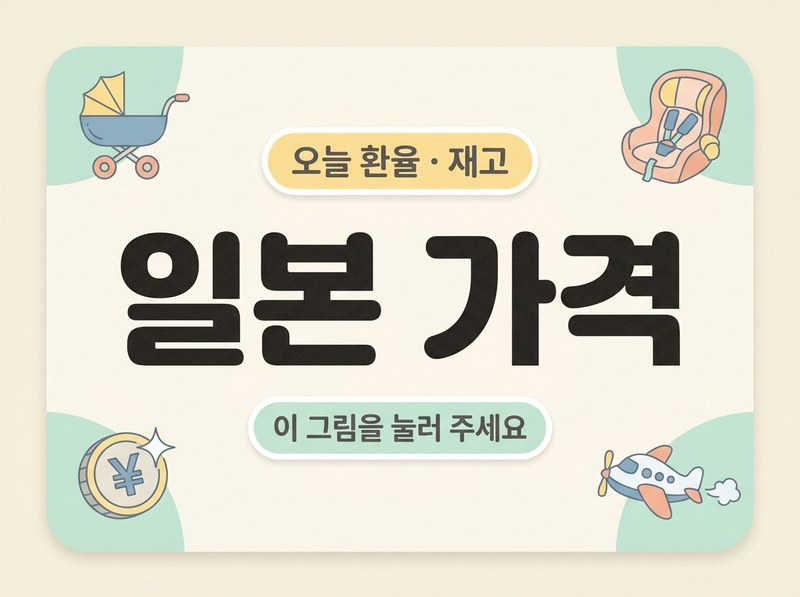
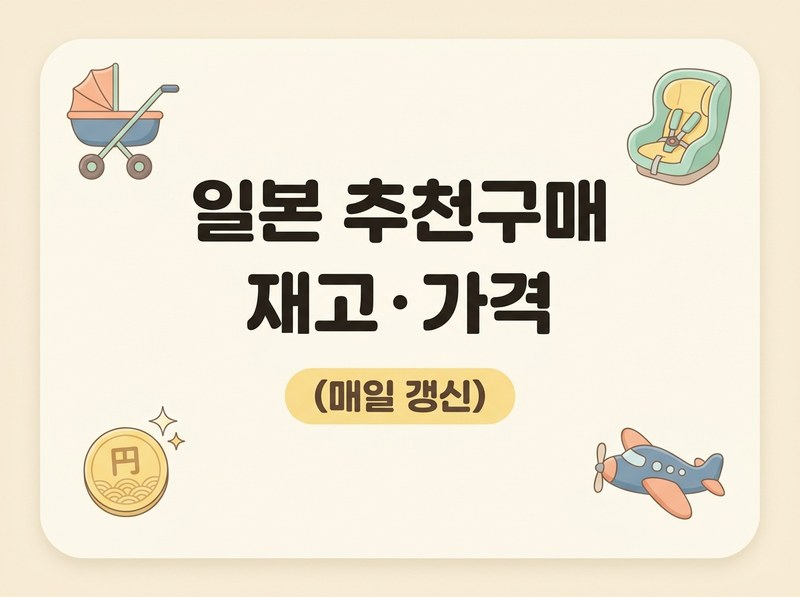
이유식 가이드에 참고용·전문가 상담 안내 추가, 일본 가격 탭 이름·그림 변경(일본 추천구매 재고·가격 매일 갱신)

diff --git a/index.html b/index.html
@@ -897,6 +897,10 @@ dd b{font-weight:500; color:var(--ink)}
 .bf-pt.on{border-color:var(--seal);color:var(--ink);font-weight:700;background:var(--paper)}
 .bf-pp[hidden]{display:none}
 .bf-pick{margin-top:6px}
+.bf-disc{margin:0 0 18px;border-left:4px solid var(--seal);background:var(--paper-2)}
+.bf-disc p{margin:0;font-size:14px;line-height:1.7;color:var(--ink-2)}
+.bf-disc p+p{margin-top:6px}
+.bf-disc b{color:var(--ink)}
 /*BF:CSS:END*/
 
 </style>
@@ -942,7 +946,7 @@ dd b{font-weight:500; color:var(--ink)}
   </button>
   <button type="button" class="tb" role="tab" aria-selected="false" data-tab="tab-jp">
     <img src="tab-jp.jpg" width="800" height="597" decoding="async"
-         alt="일본 가격 — 일본에서 많이 사 오는 유모차·카시트·하이체어의 오늘 가격과 재고, 구매처 찾아가는 법을 봅니다">
+         alt="일본 추천구매 재고·가격(매일 갱신) — 일본에서 많이 사 오는 유모차·카시트·하이체어의 오늘 가격과 재고, 구매처 찾아가는 법을 봅니다">
     <span class="tbnow">지금 보는 중</span>
   </button>
   <button type="button" class="tb" role="tab" aria-selected="false" data-tab="tab-bf">
@@ -3414,6 +3418,11 @@ function bfStepsHtml(steps){return (steps.some(s=>s.key)?BF_KEYNOTE:"")+'<ol cla
 let BF_P=BF.periods[0].id;
 const bfPer=id=>BF.periods.find(p=>p.id===id)||BF.periods[0];
 const bfCardsOf=id=>BF.cards.filter(c=>(c.period||BF.periods[0].id)===id);
+// 참고용·상담 안내: 목록 맨 위, 카드·공통 규칙 맨 아래에 항상 보여 준다
+function bfDisc(){
+  return '<div class="card bf-disc" role="note"><p><b>참고용이에요.</b> 아기마다 성장과 건강 상태가 달라서, 이유식 시작 시기와 양, 알레르기 식품, 질식 위험 음식은 <b>담당 소아청소년과 의사나 영양 전문가와 상의해서</b> 정해 주세요.</p>'
+    +'<p>알레르기가 의심되거나 걱정되는 증상이 있으면 이 가이드보다 <b>진료가 먼저</b>예요. 문장 끝의 ★◎○◇는 근거가 어디서 왔는지 알려 주는 표시이고, 의학적 판단을 대신하지 않아요.</p></div>';
+}
 function bfCardNav(card){
   const L=bfCardsOf(card.period||BF.periods[0].id), i=L.findIndex(c=>c.id===card.id), p=L[i-1], n=L[i+1];
   const a=(c,txt)=>c?'<a href="?tab=bf&bf='+bfEsc(c.id)+'" data-bf="card:'+bfEsc(c.id)+'">'+txt+"</a>":'<a class="off">.</a>';
@@ -3497,12 +3506,12 @@ function bfCardHtml(card,st){
   if(card.opinions&&card.opinions.length) h+=bfBox("의견이 갈려요",card.opinions.map(o=>'<div class="bf-call">'+bfFmt(o)+"</div>").join(""));
   h+=bfBox("보관·해동",'<div class="bf-call"><span class="bfl">냉장 <b>1~2일</b>, 냉동 <b>만든 날부터 7일 이내</b>'+bfInline("{★ 복지부}")+'</span><span class="bfl">해동은 <b>전날 저녁 냉장실</b>이 기본이에요. 자세한 방법은 공통 규칙을 봐요.</span></div>'
     +'<div class="bf-gear"><a href="?tab=bf&bf=rules" data-bf="rules" style="border-color:var(--rule)">보관·해동 공통 규칙 보기 ›</a></div>');
-  h+=bfGearHtml(card)+bfCardNav(card);
+  h+=bfGearHtml(card)+bfDisc()+bfCardNav(card);
   return h;
 }
 function bfListHtml(pid){
   const per=bfPer(pid||BF_P), cards=bfCardsOf(per.id);
-  let h=bfLegendTop(true)+'<p class="sub bf-lead">'+bfInline(BF.lead)+"</p>";
+  let h=bfLegendTop(true)+'<p class="sub bf-lead">'+bfInline(BF.lead)+"</p>"+bfDisc();
   h+=bfBox("시기 고르기",'<div class="bf-seg">'+BF.periods.map(p=>p.ready
       ?'<div class="sg pick'+(p.id===per.id?" on":"")+'" role="button" tabindex="0" data-bf="p:'+bfEsc(p.id)+'"><b>'+bfEsc(p.label)+"</b><small>"+bfEsc(p.sub)+"</small></div>"
       :'<div class="sg off"><b>'+bfEsc(p.label)+"</b><small>"+bfEsc(p.sub)+"</small></div>").join("")+"</div>"
@@ -3529,6 +3538,7 @@ function bfRulesHtml(){
     +'<div class="bf-sub">남은 것</div><ol class="bf-steps">'+li(R.leftover)+"</ol>");
   h+=bfBox("이 가이드에서 쓰는 말",'<table class="bf-mat">'+BF.terms.map(t=>"<tr><td><b>"+bfEsc(t.k)+"</b></td><td>"+bfFmt(t.v)+"</td></tr>").join("")+"</table>");
   h+=bfBox("이 가이드의 한계",'<div class="bf-chk">'+BF.limits.map(t=>"<div><i>!</i><span>"+bfFmt(t)+"</span></div>").join("")+"</div>");
+  h+=bfDisc();
   return h;
 }
 (function(){
@@ -4778,7 +4788,7 @@ function wkApplyShop(j){
   return changed;
 }
 // 이 파일의 지문(stamp_build.py 가 배포 전에 채움). shop.json 의 html 값과 다르면 캐시에 남은 옛 페이지라는 뜻 → 같은 탭에서 한 번만 새로 읽는다.
-var APP_BUILD="8e96ce03";
+var APP_BUILD="73739ffd";
 function wkLoadShop(){
   try{
     fetch("shop.json",{cache:"no-cache"}).then(r=>r.ok?r.json():null).then(j=>{
